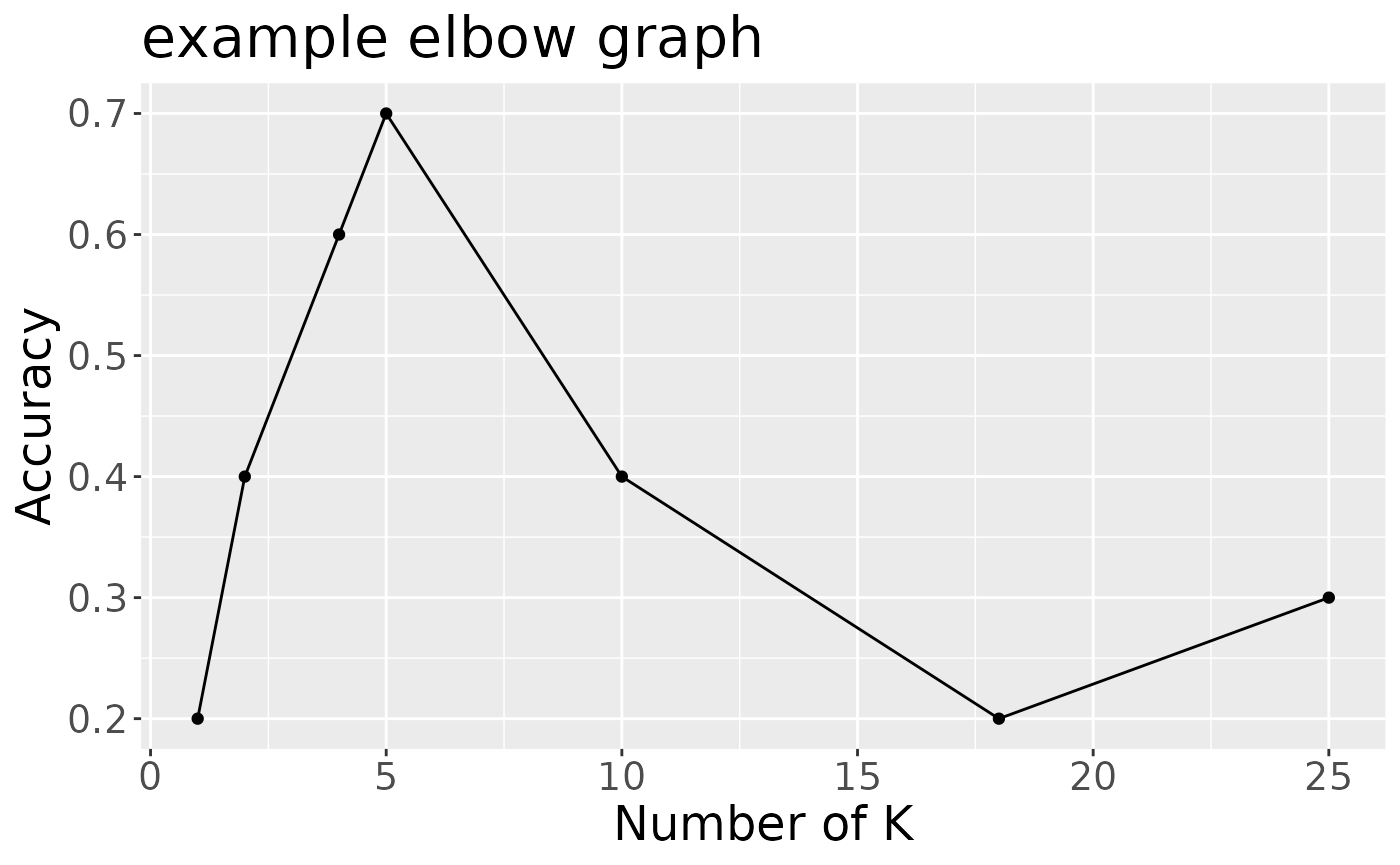
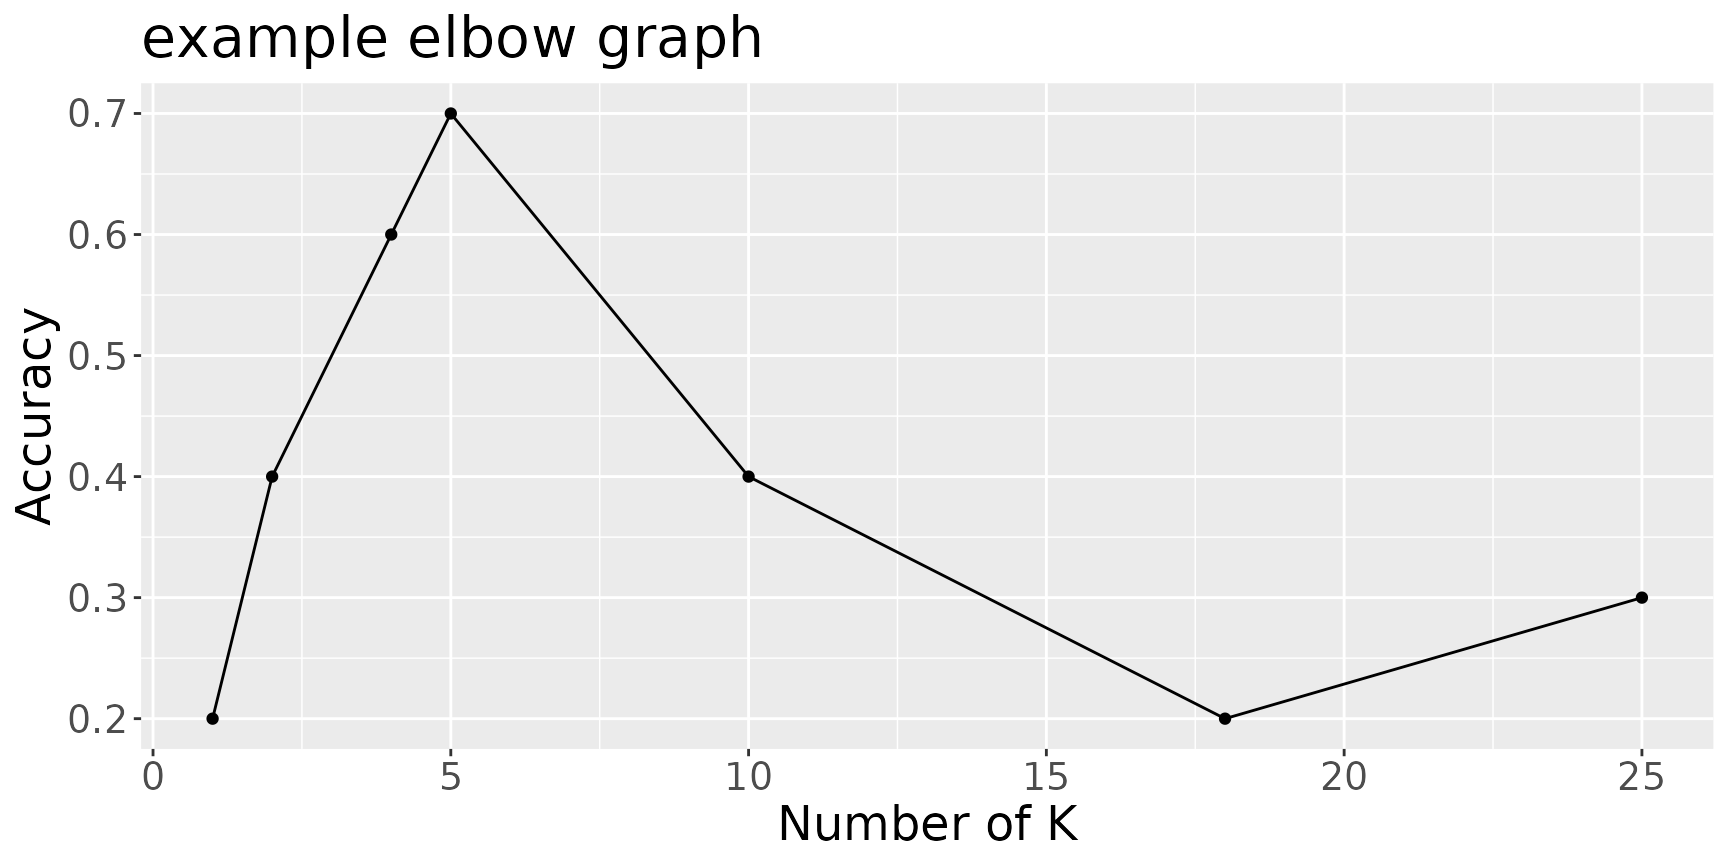
Deploying to gh-pages from @ DSCI-310/dsci-310-group-14-pkg@29189e740e2db067e9ca598572c99bacc7d91193 🚀

diff --git a/404.html b/404.html
@@ -6,23 +6,23 @@
 <meta http-equiv="X-UA-Compatible" content="IE=edge">
 <meta name="viewport" content="width=device-width, initial-scale=1, shrink-to-fit=no">
 <title>Page not found (404) • NBASTARS</title>
-<script src="deps/jquery-3.6.0/jquery-3.6.0.min.js"></script><meta name="viewport" content="width=device-width, initial-scale=1, shrink-to-fit=no">
-<link href="deps/bootstrap-5.2.2/bootstrap.min.css" rel="stylesheet">
-<script src="deps/bootstrap-5.2.2/bootstrap.bundle.min.js"></script><!-- Font Awesome icons --><link rel="stylesheet" href="https://cdnjs.cloudflare.com/ajax/libs/font-awesome/5.12.1/css/all.min.css" integrity="sha256-mmgLkCYLUQbXn0B1SRqzHar6dCnv9oZFPEC1g1cwlkk=" crossorigin="anonymous">
+<script src="https://dsci-310.github.io/dsci-310-group-14-pkg/deps/jquery-3.6.0/jquery-3.6.0.min.js"></script><meta name="viewport" content="width=device-width, initial-scale=1, shrink-to-fit=no">
+<link href="https://dsci-310.github.io/dsci-310-group-14-pkg/deps/bootstrap-5.2.2/bootstrap.min.css" rel="stylesheet">
+<script src="https://dsci-310.github.io/dsci-310-group-14-pkg/deps/bootstrap-5.2.2/bootstrap.bundle.min.js"></script><!-- Font Awesome icons --><link rel="stylesheet" href="https://cdnjs.cloudflare.com/ajax/libs/font-awesome/5.12.1/css/all.min.css" integrity="sha256-mmgLkCYLUQbXn0B1SRqzHar6dCnv9oZFPEC1g1cwlkk=" crossorigin="anonymous">
 <link rel="stylesheet" href="https://cdnjs.cloudflare.com/ajax/libs/font-awesome/5.12.1/css/v4-shims.min.css" integrity="sha256-wZjR52fzng1pJHwx4aV2AO3yyTOXrcDW7jBpJtTwVxw=" crossorigin="anonymous">
-<!-- bootstrap-toc --><script src="https://cdn.jsdelivr.net/gh/afeld/bootstrap-toc@v1.0.1/dist/bootstrap-toc.min.js" integrity="sha256-4veVQbu7//Lk5TSmc7YV48MxtMy98e26cf5MrgZYnwo=" crossorigin="anonymous"></script><!-- headroom.js --><script src="https://cdnjs.cloudflare.com/ajax/libs/headroom/0.11.0/headroom.min.js" integrity="sha256-AsUX4SJE1+yuDu5+mAVzJbuYNPHj/WroHuZ8Ir/CkE0=" crossorigin="anonymous"></script><script src="https://cdnjs.cloudflare.com/ajax/libs/headroom/0.11.0/jQuery.headroom.min.js" integrity="sha256-ZX/yNShbjqsohH1k95liqY9Gd8uOiE1S4vZc+9KQ1K4=" crossorigin="anonymous"></script><!-- clipboard.js --><script src="https://cdnjs.cloudflare.com/ajax/libs/clipboard.js/2.0.6/clipboard.min.js" integrity="sha256-inc5kl9MA1hkeYUt+EC3BhlIgyp/2jDIyBLS6k3UxPI=" crossorigin="anonymous"></script><!-- search --><script src="https://cdnjs.cloudflare.com/ajax/libs/fuse.js/6.4.6/fuse.js" integrity="sha512-zv6Ywkjyktsohkbp9bb45V6tEMoWhzFzXis+LrMehmJZZSys19Yxf1dopHx7WzIKxr5tK2dVcYmaCk2uqdjF4A==" crossorigin="anonymous"></script><script src="https://cdnjs.cloudflare.com/ajax/libs/autocomplete.js/0.38.0/autocomplete.jquery.min.js" integrity="sha512-GU9ayf+66Xx2TmpxqJpliWbT5PiGYxpaG8rfnBEk1LL8l1KGkRShhngwdXK1UgqhAzWpZHSiYPc09/NwDQIGyg==" crossorigin="anonymous"></script><script src="https://cdnjs.cloudflare.com/ajax/libs/mark.js/8.11.1/mark.min.js" integrity="sha512-5CYOlHXGh6QpOFA/TeTylKLWfB3ftPsde7AnmhuitiTX4K5SqCLBeKro6sPS8ilsz1Q4NRx3v8Ko2IBiszzdww==" crossorigin="anonymous"></script><!-- pkgdown --><script src="pkgdown.js"></script><meta property="og:title" content="Page not found (404)">
+<!-- bootstrap-toc --><script src="https://cdn.jsdelivr.net/gh/afeld/bootstrap-toc@v1.0.1/dist/bootstrap-toc.min.js" integrity="sha256-4veVQbu7//Lk5TSmc7YV48MxtMy98e26cf5MrgZYnwo=" crossorigin="anonymous"></script><!-- headroom.js --><script src="https://cdnjs.cloudflare.com/ajax/libs/headroom/0.11.0/headroom.min.js" integrity="sha256-AsUX4SJE1+yuDu5+mAVzJbuYNPHj/WroHuZ8Ir/CkE0=" crossorigin="anonymous"></script><script src="https://cdnjs.cloudflare.com/ajax/libs/headroom/0.11.0/jQuery.headroom.min.js" integrity="sha256-ZX/yNShbjqsohH1k95liqY9Gd8uOiE1S4vZc+9KQ1K4=" crossorigin="anonymous"></script><!-- clipboard.js --><script src="https://cdnjs.cloudflare.com/ajax/libs/clipboard.js/2.0.6/clipboard.min.js" integrity="sha256-inc5kl9MA1hkeYUt+EC3BhlIgyp/2jDIyBLS6k3UxPI=" crossorigin="anonymous"></script><!-- search --><script src="https://cdnjs.cloudflare.com/ajax/libs/fuse.js/6.4.6/fuse.js" integrity="sha512-zv6Ywkjyktsohkbp9bb45V6tEMoWhzFzXis+LrMehmJZZSys19Yxf1dopHx7WzIKxr5tK2dVcYmaCk2uqdjF4A==" crossorigin="anonymous"></script><script src="https://cdnjs.cloudflare.com/ajax/libs/autocomplete.js/0.38.0/autocomplete.jquery.min.js" integrity="sha512-GU9ayf+66Xx2TmpxqJpliWbT5PiGYxpaG8rfnBEk1LL8l1KGkRShhngwdXK1UgqhAzWpZHSiYPc09/NwDQIGyg==" crossorigin="anonymous"></script><script src="https://cdnjs.cloudflare.com/ajax/libs/mark.js/8.11.1/mark.min.js" integrity="sha512-5CYOlHXGh6QpOFA/TeTylKLWfB3ftPsde7AnmhuitiTX4K5SqCLBeKro6sPS8ilsz1Q4NRx3v8Ko2IBiszzdww==" crossorigin="anonymous"></script><!-- pkgdown --><script src="https://dsci-310.github.io/dsci-310-group-14-pkg/pkgdown.js"></script><meta property="og:title" content="Page not found (404)">
 <!-- mathjax --><script src="https://cdnjs.cloudflare.com/ajax/libs/mathjax/2.7.5/MathJax.js" integrity="sha256-nvJJv9wWKEm88qvoQl9ekL2J+k/RWIsaSScxxlsrv8k=" crossorigin="anonymous"></script><script src="https://cdnjs.cloudflare.com/ajax/libs/mathjax/2.7.5/config/TeX-AMS-MML_HTMLorMML.js" integrity="sha256-84DKXVJXs0/F8OTMzX4UR909+jtl4G7SPypPavF+GfA=" crossorigin="anonymous"></script><!--[if lt IE 9]>
 <script src="https://oss.maxcdn.com/html5shiv/3.7.3/html5shiv.min.js"></script>
 <script src="https://oss.maxcdn.com/respond/1.4.2/respond.min.js"></script>
 <![endif]-->
 </head>
 <body>
-    <a href="#main" class="visually-hidden-focusable">Skip to contents</a>
+    <a href="https://dsci-310.github.io/dsci-310-group-14-pkg/#main" class="visually-hidden-focusable">Skip to contents</a>
     
 
     <nav class="navbar fixed-top navbar-light navbar-expand-lg bg-light"><div class="container">
     
-    <a class="navbar-brand me-2" href="index.html">NBASTARS</a>
+    <a class="navbar-brand me-2" href="https://dsci-310.github.io/dsci-310-group-14-pkg/index.html">NBASTARS</a>
 
     <small class="nav-text text-muted me-auto" data-bs-toggle="tooltip" data-bs-placement="bottom" title="">0.0.0.9000</small>
 
@@ -34,12 +34,12 @@
     <div id="navbar" class="collapse navbar-collapse ms-3">
       <ul class="navbar-nav me-auto">
 <li class="nav-item">
-  <a class="nav-link" href="reference/index.html">Reference</a>
+  <a class="nav-link" href="https://dsci-310.github.io/dsci-310-group-14-pkg/reference/index.html">Reference</a>
 </li>
 <li class="nav-item dropdown">
-  <a href="#" class="nav-link dropdown-toggle" data-bs-toggle="dropdown" role="button" aria-expanded="false" aria-haspopup="true" id="dropdown-articles">Articles</a>
+  <a href="https://dsci-310.github.io/dsci-310-group-14-pkg/#" class="nav-link dropdown-toggle" data-bs-toggle="dropdown" role="button" aria-expanded="false" aria-haspopup="true" id="dropdown-articles">Articles</a>
   <div class="dropdown-menu" aria-labelledby="dropdown-articles">
-    <a class="dropdown-item" href="articles/my-vignette.html">my-vignette</a>
+    <a class="dropdown-item" href="https://dsci-310.github.io/dsci-310-group-14-pkg/articles/my-vignette.html">my-vignette</a>
   </div>
 </li>
       </ul>
@@ -55,7 +55,7 @@
 </nav><div class="container template-title-body">
 <div class="row">
   <main id="main" class="col-md-9"><div class="page-header">
-      <img src="" class="logo" alt=""><h1>Page not found (404)</h1>
+      <img src="https://dsci-310.github.io/dsci-310-group-14-pkg/" class="logo" alt=""><h1>Page not found (404)</h1>
       
     </div>
 

diff --git a/articles/my-vignette.html b/articles/my-vignette.html
@@ -71,7 +71,7 @@
     
     
 <div class="sourceCode" id="cb1"><pre class="downlit sourceCode r">
-<code class="sourceCode R"><span><span class="kw"><a href="https://rdrr.io/r/base/library.html" class="external-link">library</a></span><span class="op">(</span><span class="va">NBASTARS</span><span class="op">)</span></span></code></pre></div>
+<code class="sourceCode R"><span><span class="kw"><a href="https://rdrr.io/r/base/library.html" class="external-link">library</a></span><span class="op">(</span><span class="va"><a href="https://dsci-310.github.io/dsci-310-group-14-pkg/">NBASTARS</a></span><span class="op">)</span></span></code></pre></div>
 <p>This document contains documentation and example on how to use the
 NBASTARS package to assist you in performing data analysis and modelling
 on the NBA players dataset.</p>
@@ -152,21 +152,21 @@ called “data_training” and “data_testing”.</p>
 <div class="sourceCode" id="cb5"><pre class="downlit sourceCode r">
 <code class="sourceCode R"><span><span class="fu"><a href="../reference/split_data.html">split_data</a></span><span class="op">(</span><span class="va">mtcars</span>, <span class="fl">0.7</span>, <span class="st">"vs"</span><span class="op">)</span></span>
 <span><span class="fu"><a href="https://rdrr.io/r/utils/head.html" class="external-link">head</a></span><span class="op">(</span><span class="va">data_training</span><span class="op">)</span></span>
-<span><span class="co">#&gt;                      mpg cyl  disp  hp drat    wt  qsec vs am gear carb</span></span>
-<span><span class="co">#&gt; Mazda RX4 Wag       21.0   6 160.0 110 3.90 2.875 17.02  0  1    4    4</span></span>
-<span><span class="co">#&gt; Hornet Sportabout   18.7   8 360.0 175 3.15 3.440 17.02  0  0    3    2</span></span>
-<span><span class="co">#&gt; Merc 450SE          16.4   8 275.8 180 3.07 4.070 17.40  0  0    3    3</span></span>
-<span><span class="co">#&gt; Merc 450SLC         15.2   8 275.8 180 3.07 3.780 18.00  0  0    3    3</span></span>
-<span><span class="co">#&gt; Lincoln Continental 10.4   8 460.0 215 3.00 5.424 17.82  0  0    3    4</span></span>
-<span><span class="co">#&gt; Dodge Challenger    15.5   8 318.0 150 2.76 3.520 16.87  0  0    3    2</span></span>
+<span><span class="co">#&gt;                    mpg cyl  disp  hp drat   wt  qsec vs am gear carb</span></span>
+<span><span class="co">#&gt; Mazda RX4         21.0   6 160.0 110 3.90 2.62 16.46  0  1    4    4</span></span>
+<span><span class="co">#&gt; Hornet Sportabout 18.7   8 360.0 175 3.15 3.44 17.02  0  0    3    2</span></span>
+<span><span class="co">#&gt; Duster 360        14.3   8 360.0 245 3.21 3.57 15.84  0  0    3    4</span></span>
+<span><span class="co">#&gt; Merc 450SE        16.4   8 275.8 180 3.07 4.07 17.40  0  0    3    3</span></span>
+<span><span class="co">#&gt; Merc 450SL        17.3   8 275.8 180 3.07 3.73 17.60  0  0    3    3</span></span>
+<span><span class="co">#&gt; Merc 450SLC       15.2   8 275.8 180 3.07 3.78 18.00  0  0    3    3</span></span>
 <span><span class="fu"><a href="https://rdrr.io/r/utils/head.html" class="external-link">head</a></span><span class="op">(</span><span class="va">data_testing</span><span class="op">)</span></span>
-<span><span class="co">#&gt;                 mpg cyl  disp  hp drat    wt  qsec vs am gear carb</span></span>
-<span><span class="co">#&gt; Mazda RX4      21.0   6 160.0 110 3.90 2.620 16.46  0  1    4    4</span></span>
-<span><span class="co">#&gt; Datsun 710     22.8   4 108.0  93 3.85 2.320 18.61  1  1    4    1</span></span>
-<span><span class="co">#&gt; Hornet 4 Drive 21.4   6 258.0 110 3.08 3.215 19.44  1  0    3    1</span></span>
-<span><span class="co">#&gt; Duster 360     14.3   8 360.0 245 3.21 3.570 15.84  0  0    3    4</span></span>
-<span><span class="co">#&gt; Merc 240D      24.4   4 146.7  62 3.69 3.190 20.00  1  0    4    2</span></span>
-<span><span class="co">#&gt; Merc 230       22.8   4 140.8  95 3.92 3.150 22.90  1  0    4    2</span></span></code></pre></div>
+<span><span class="co">#&gt;                    mpg cyl  disp  hp drat    wt  qsec vs am gear carb</span></span>
+<span><span class="co">#&gt; Mazda RX4 Wag     21.0   6 160.0 110 3.90 2.875 17.02  0  1    4    4</span></span>
+<span><span class="co">#&gt; Datsun 710        22.8   4 108.0  93 3.85 2.320 18.61  1  1    4    1</span></span>
+<span><span class="co">#&gt; Valiant           18.1   6 225.0 105 2.76 3.460 20.22  1  0    3    1</span></span>
+<span><span class="co">#&gt; Chrysler Imperial 14.7   8 440.0 230 3.23 5.345 17.42  0  0    3    4</span></span>
+<span><span class="co">#&gt; Toyota Corolla    33.9   4  71.1  65 4.22 1.835 19.90  1  1    4    1</span></span>
+<span><span class="co">#&gt; Toyota Corona     21.5   4 120.1  97 3.70 2.465 20.01  1  0    3    1</span></span></code></pre></div>
 </div>
 <div class="section level3">
 <h3 id="visualize_knn">4. visualize_knn()<a class="anchor" aria-label="anchor" href="#visualize_knn"></a>
@@ -180,7 +180,7 @@ dataset to illustrate this function’s usage.</p>
 <span><span class="va">accuracy</span> <span class="op">&lt;-</span> <span class="fu"><a href="https://rdrr.io/r/base/c.html" class="external-link">c</a></span><span class="op">(</span><span class="fl">0.2</span>, <span class="fl">0.4</span>, <span class="fl">0.6</span>, <span class="fl">0.7</span>, <span class="fl">0.4</span>, <span class="fl">0.2</span>, <span class="fl">0.3</span><span class="op">)</span></span>
 <span><span class="va">df</span> <span class="op">&lt;-</span> <span class="fu"><a href="https://rdrr.io/r/base/data.frame.html" class="external-link">data.frame</a></span><span class="op">(</span><span class="va">K</span>, <span class="va">accuracy</span><span class="op">)</span></span>
 <span><span class="fu"><a href="../reference/visualize_knn.html">visualize_knn</a></span><span class="op">(</span><span class="va">df</span>, <span class="va">K</span>, <span class="va">accuracy</span>, <span class="st">"example elbow graph"</span><span class="op">)</span></span></code></pre></div>
-<p><img src="my-vignette_files/figure-html/knn%20example-1.png" width="700"></p>
+<p><img src="my-vignette_files/figure-html/knn%20example-1.png" width="864"></p>
 </div>
 </div>
   </main><aside class="col-md-3"><nav id="toc"><h2>On this page</h2>

diff --git a/index.html b/index.html
@@ -77,7 +77,7 @@
 </h2>
 <p>This is a basic example which shows you how to use the select_to_from function which filters a specified variable using a range:</p>
 <div class="sourceCode" id="cb2"><pre class="downlit sourceCode r">
-<code class="sourceCode R"><span><span class="kw"><a href="https://rdrr.io/r/base/library.html" class="external-link">library</a></span><span class="op">(</span><span class="va">NBASTARS</span><span class="op">)</span></span>
+<code class="sourceCode R"><span><span class="kw"><a href="https://rdrr.io/r/base/library.html" class="external-link">library</a></span><span class="op">(</span><span class="va"><a href="https://dsci-310.github.io/dsci-310-group-14-pkg/">NBASTARS</a></span><span class="op">)</span></span>
 <span><span class="co">## basic example code</span></span>
 <span><span class="va">selected</span> <span class="op">&lt;-</span> <span class="fu"><a href="reference/select_to_from.html">select_to_from</a></span><span class="op">(</span><span class="va">mtcars</span>,<span class="va">mpg</span>,<span class="fl">21</span>,<span class="fl">22.8</span><span class="op">)</span></span>
 <span><span class="fu"><a href="https://rdrr.io/r/utils/head.html" class="external-link">head</a></span><span class="op">(</span><span class="va">selected</span><span class="op">)</span></span>

diff --git a/authors.html b/authors.html
@@ -55,13 +55,14 @@
 
       <p>Nguyen R (2023).
 <em>NBASTARS: Assist with the machine learning task of predicting NBA Allstars</em>.
-R package version 0.0.0.9000. 
+R package version 0.0.0.9000, <a href="https://dsci-310.github.io/dsci-310-group-14-pkg/">https://dsci-310.github.io/dsci-310-group-14-pkg/</a>. 
 </p>
       <pre>@Manual{,
   title = {NBASTARS: Assist with the machine learning task of predicting NBA Allstars},
   author = {Ray Nguyen},
   year = {2023},
   note = {R package version 0.0.0.9000},
+  url = {https://dsci-310.github.io/dsci-310-group-14-pkg/},
 }</pre>
     </div>
   </main><aside class="col-md-3"><nav id="toc"><h2>On this page</h2>
